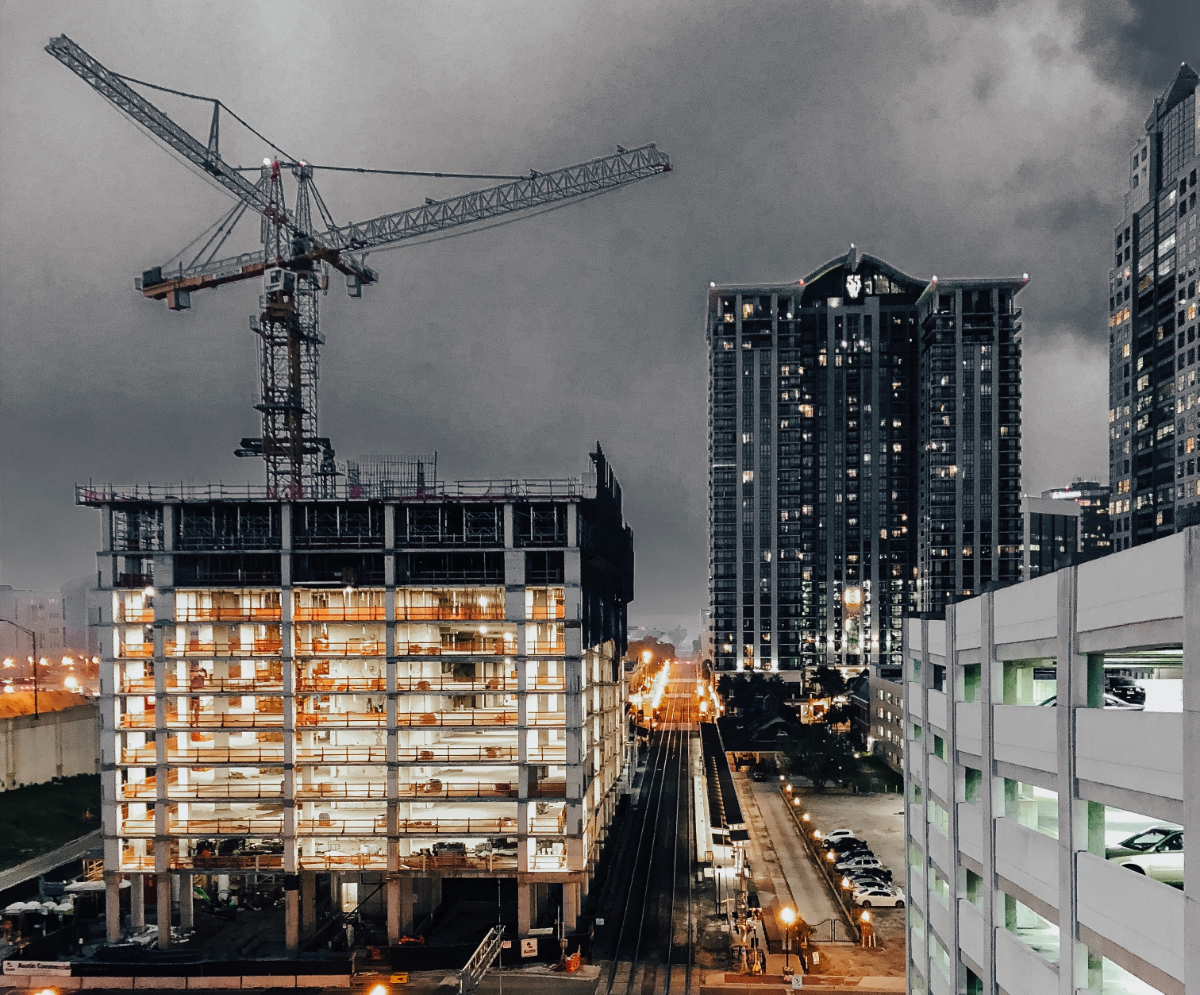
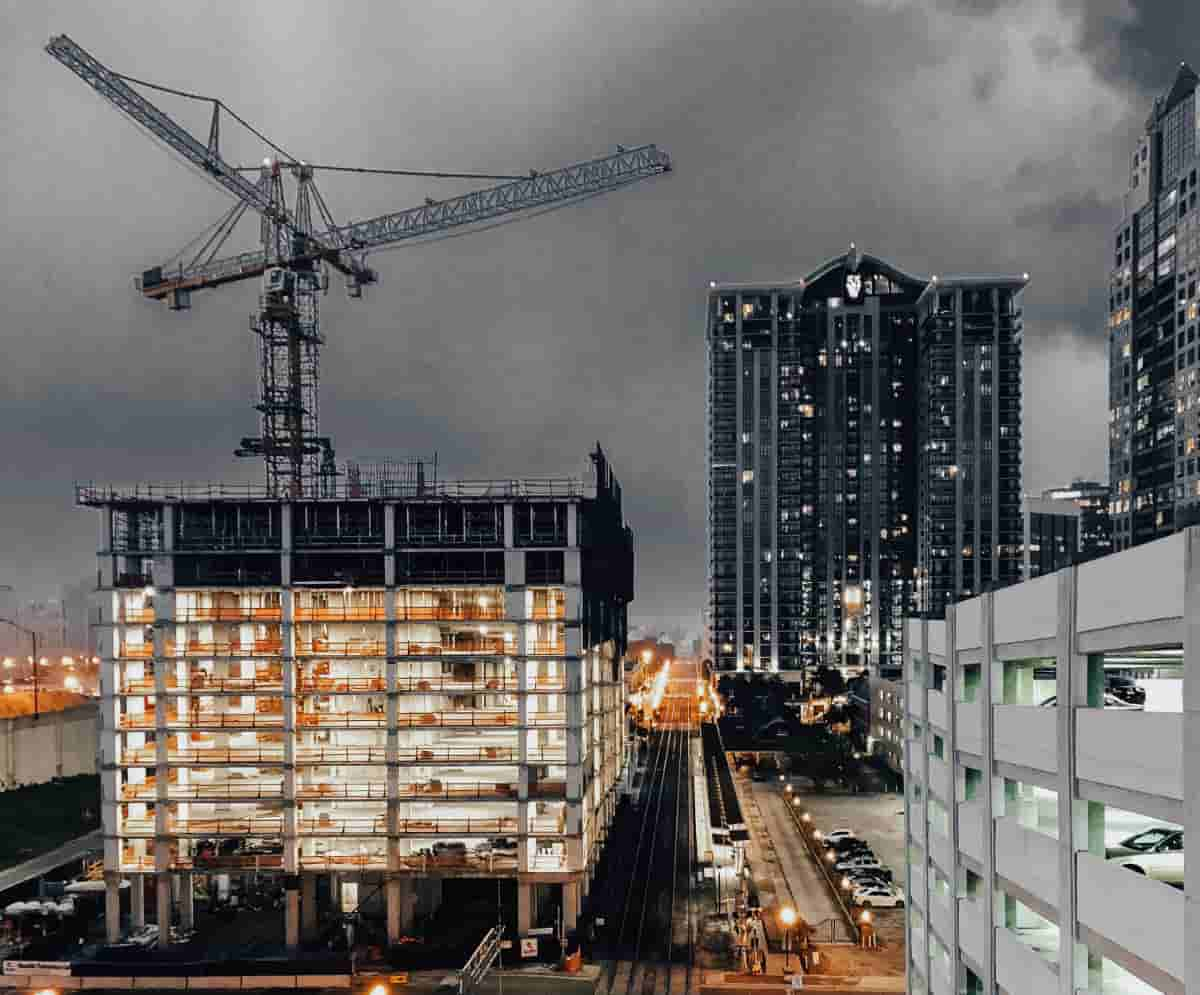
img optimization

diff --git a/index.html b/index.html
@@ -471,10 +471,10 @@
                 <div class="col-lg-4">
                     <div class="single-project">
                         <div class="project-image">
-                            <img src="assets/images/project/p-1.jpg" class="img-box" alt="Project">
+                            <img src="assets/images/project/p-1-min.jpg" class="img-box" alt="Project">
                         </div>
                         <div class="project-content">
-                            <a class="project-title img-box-title" href="assets/images/project/p-1.jpg" data-lightbox="galary">Workers on Constructions</a>
+                            <a class="project-title img-box-title" href="assets/images/project/p-1-min.jpg" data-lightbox="galary">Workers on Constructions</a>
                         </div>
                     </div>
                 </div>
